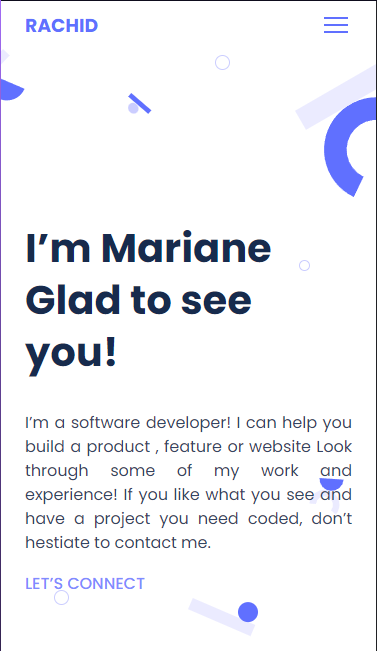
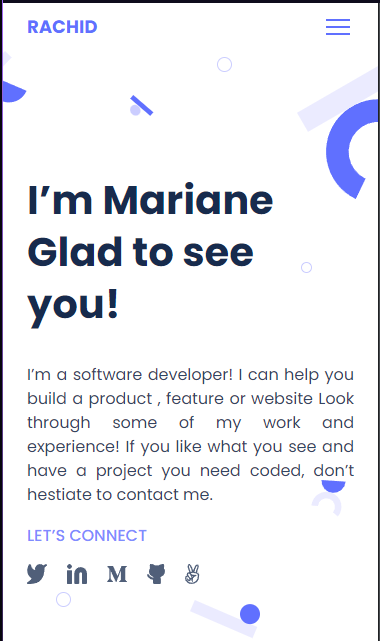
following the reviewer suggestions

diff --git a/index.html b/index.html
@@ -9,9 +9,8 @@
   </head>
   <body>
     <header>
+      <a href="/">RACHID</a>
       <nav>
-        <h3>RACHID</h3>
-
         <div class="menu"><span></span><span></span><span></span></div>
       </nav>
     </header>
@@ -24,13 +23,23 @@
         you see and have a project you need coded, don’t hestiate to contact me.
       </p>
       <a href="#">LET’S CONNECT</a>
-      <div class="socials">
-        <img src="./assets/twitter.svg" alt="twitter icon" />
-        <img src="./assets/Linkedin.svg" alt="Linkedin icon" />
-        <img src="./assets/meduim.svg" alt="medium icon" />
-        <img src="./assets/github.svg" alt="github icon" />
-        <img src="./assets/peace.svg" alt="peace icon" />
-      </div>
+      <ul class="socials">
+        <li>
+          <img src="./assets/twitter.svg" alt="twitter icon" />
+        </li>
+        <li>
+          <img src="./assets/Linkedin.svg" alt="Linkedin icon" />
+        </li>
+        <li>
+          <img src="./assets/meduim.svg" alt="medium icon" />
+        </li>
+        <li>
+          <img src="./assets/github.svg" alt="github icon" />
+        </li>
+        <li>
+          <img src="./assets/peace.svg" alt="peace icon" />
+        </li>
+      </ul>
     </section>
   </body>
 </html>

diff --git a/style.css b/style.css
@@ -6,14 +6,34 @@ body {
   margin: 0;
 }
 
-nav {
+a,
+a:visited {
+  text-decoration: none;
+  font-weight: 500;
+  font-size: 16px;
+  line-height: 24px;
+  color: #7f8cff;
+}
+
+a:hover {
+  color: #6070ff;
+}
+
+header {
   height: 48px;
   display: flex;
   justify-content: space-between;
   align-items: center;
   padding: 0 24px;
-  color: #6070ff;
+
   background-color: #fff;
+}
+
+header a {
+  font-size: 18px;
+  line-height: 20px;
+  font-weight: 700;
+  color: #6070ff;
 }
 
 .menu {
@@ -35,7 +55,7 @@ nav {
 }
 
 .hero {
-  padding: 140px 24px;
+  padding: 90px 24px;
   background-image: url("./assets/header-shapes-mobile.svg");
   background-repeat: no-repeat;
   background-size: contain;
@@ -55,15 +75,12 @@ p {
   text-align: justify;
 }
 
-a,
-a:visited {
-  text-decoration: none;
-  font-weight: 500;
-  font-size: 16px;
-  line-height: 24px;
-  color: #7f8cff;
+.socials {
+  display: flex;
+  padding: 0;
+  list-style-type: none;
 }
 
-a:hover {
-  color: #6070ff;
+.socials li:not(:last-child) {
+  margin-right: 20px;
 }
